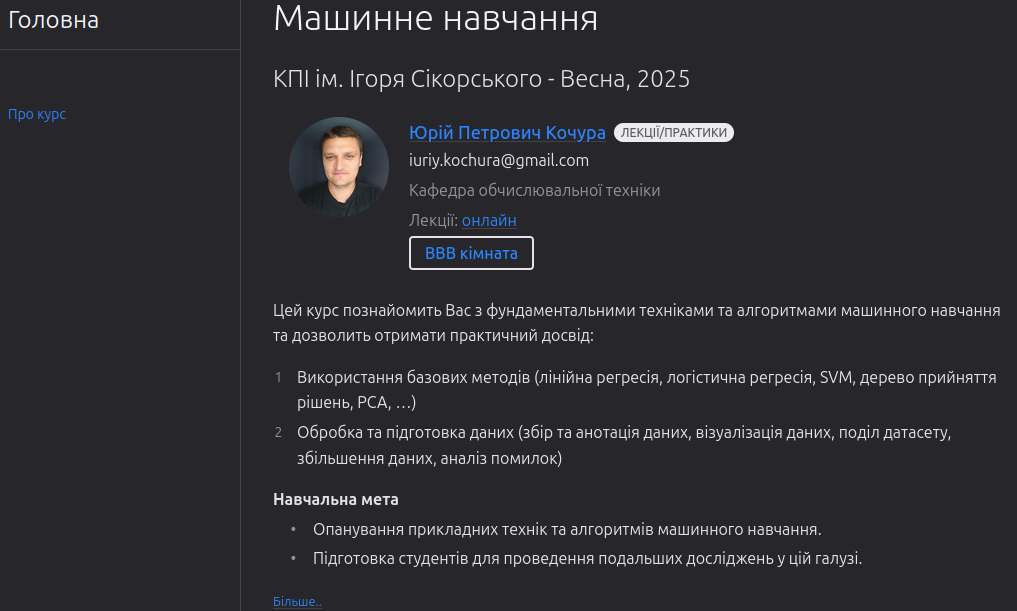
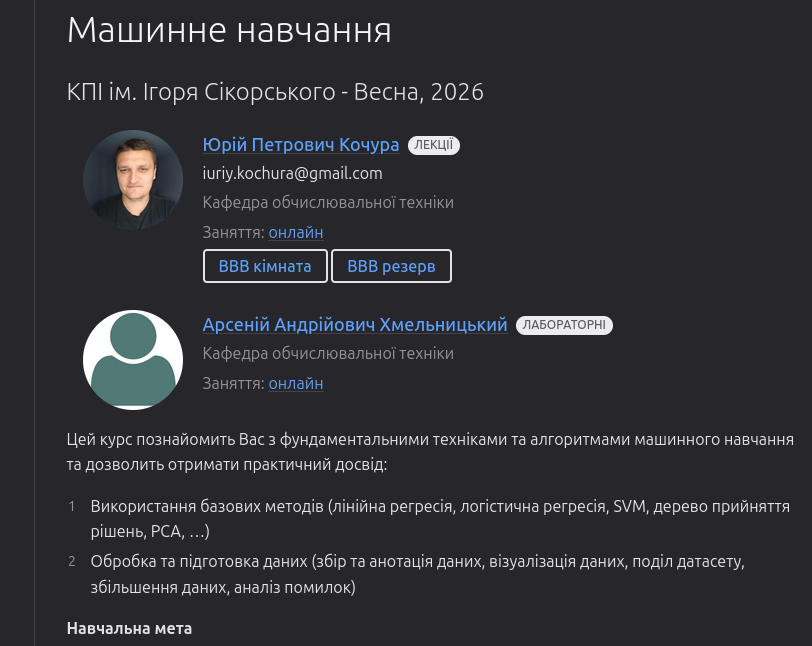
upd

diff --git a/details.md b/details.md
@@ -2,33 +2,40 @@ class: middle, center, title-slide
 
 # Машинне навчання
 
-Весна, 2025
+Весна, 2026
 
 <br><br>
 Кочура Юрій Петрович<br>
 [iuriy.kochura@gmail.com](mailto:iuriy.kochura@gmail.com) <br>
 <a href="https://t.me/y_kochura">@y_kochura</a> <br>
 
-
-???
-
-R: https://www.cs.toronto.edu/~duvenaud/courses/csc2541/index.html projects
-
 ---
 
-# Інструктор
+class: middle 
 
-Лекції та практики:
-- Кочура Юрій Петрович 
-  - Кафедра ОТ, ФІОТ 
+# Викладачі
 
-<br>
 
-.center[
-.circle.width-40[![](figures/details/ykochura.jpg)]
+.grid[
+.kol-1-2[ 
+.center.larger-x[📖 Лекції] <br>
+.circle.center.width-60[![](./figures/details/ykochura.png)]
+.bold.center[👤 Кочура Юрій Петрович ] 
+<span style="display:block; margin:10px 0;"></span>
+.bold.center[🏢 Кафедра ОТ, ФІОТ]
+
 ]
+.kol-1-2[
+.center.larger-x[💻 Лабораторні]<br> 
+.circle.center.width-60[![](./figures/details/image.jpg)]
+.bold.center[👤 Арсеній Андрійович Хмельницький ] 
+<span style="display:block; margin:10px 0;"></span>
+.bold.center[🏢 Кафедра ОТ, ФІОТ]
+
+]]
 
 ---
+
 
 class: middle 
 # Опис
@@ -96,14 +103,15 @@ count: false
 ---
 
 
+# Аудиторія для лекцій
 
-class: middle 
-# Заняття
+- Цього семестру .highlight[.bold[лекції]] будуть онлайн у змішаному форматі
+ 
+- Семінар в синхронному режимі онлайн на платформі .bold[*BigBlueButton*]:
+.rectangle[BBB кімната:  [https://bbb.comsys.kpi.ua/rooms/yur-olk-sfq-1dv/join](https://bbb.comsys.kpi.ua/rooms/yur-olk-sfq-1dv/join)]<br>
+.rectangle[BBB резерв:  [https://bbb.ugrid.org/b/yur-hbj-mzc-rr4](https://bbb.ugrid.org/b/yur-hbj-mzc-rr4)]
 
-- *Лекції* та *практики* будуть онлайн у змішаному форматі
-- Семінар в синхронному режимі онлайн на платформі .bold[*BigBlueButton*]:<br>  [https://bbb.comsys.kpi.ua/rooms/yur-olk-sfq-1dv/join](https://bbb.comsys.kpi.ua/rooms/yur-olk-sfq-1dv/join)
-
-.center.width-100[![](figures/details/bbb.png)]
+.center.width-90[![](figures/details/bbb.png)]
 
 ---
 
@@ -113,8 +121,7 @@ class: middle
 
 Усі *оголошення* та *обговорення* будуть здійснюватись в Telegram (повідомте мене, якщо потрібно Вас додати)
 
-- Задавайте питання, які Вас турбують
-- Не соромтесь!
+.quote[Ставте запитання, діліться корисними ресурсами та спілкуйтеся з одногрупниками і викладачами.]
 
 
 .center.width-40[![](figures/details/telegram.png)]
@@ -127,7 +134,7 @@ class: middle
 
 # Що робити, якщо розпочалась повітряна тривога?
 
-У випадку оголошення повітряної тривоги у Вашому місті &mdash; залиште заняття та прямуйте до найближчого укриття. 
+.alert[📢 У випадку оголошення повітряної тривоги  &mdash; залиште заняття та .bold[прямуйте до найближчого укриття].]
 
 ---
 
@@ -137,7 +144,7 @@ class: middle
 # Вебсторінка
 
 
-Усі навчальні матеріали будуть розміщуватись на цій вебсторінці:<br>  [https://courses-cs-kpi.github.io/ml-25sp/](https://courses-cs-kpi.github.io/ml-25sp/)
+Навчальні матеріали будуть розміщуватись на цій вебсторінці:<br>  .rectangle[[https://courses-cs-kpi.github.io/ml-26sp/](https://courses-cs-kpi.github.io/ml-26sp/)]
 
 .center.width-80[![](figures/details/web.png)]
 
@@ -215,7 +222,7 @@ class: middle
 - 30%  &nbsp;&emsp; Екзамен 
 
 **Примітка!** Умова допуску до семестрового контролю (екзамену):<br>
- .center[*Практичні + Контрольна +  Семінар * $\geq 42\%$]
+ .center[*Практичні + Контрольна +  Семінар* $\geq 42\%$]
 
 ---
 
@@ -254,7 +261,8 @@ count: false
 Кодексом честi КПI iм. Iгоря Сiкорського ([Розліл 3](https://kpi.ua/code)) та усi наступнi
 правила:
 
-1. Кожен з Вас повинен вiдправляти на перевiрку власно виконану роботу. Використання чужих розв’язкiв або програмного коду i представлення їх за свої напрацювання є плагiатом та серйозним порушенням основних академiчних стандартiв.
+1. Кожен з Вас повинен вiдправляти на перевiрку .highlight[.bold[власно виконану роботу]]. Використання чужих розв’язкiв або програмного коду i представлення їх за свої напрацювання є плагiатом та серйозним порушенням основних академiчних стандартiв.
+
 
 ---
 
@@ -293,104 +301,6 @@ count: false
 1. .inactive[Ви не повиннi дiлитися своїми розв’язками з iншими студентами, а також просити iнших дiлитися своїми розв’язками з Вами.]
 
 1. Якщо Ви отримували допомогу у вирiшеннi певного завдання, Ви маєте зазначити це у звiтi, а саме: вiд кого та яку допомогу отримали.
-
----
-
-
-
-class: middle 
-# Кодекс честі
-
-## Норми етичної поведінки
-
-Норми етичної поведінки студентів і працівників університету визначені у [розділі 2 Кодексу честі](https://kpi.ua/code) 
-Національного технічного університету України «Київський політехнічний інститут імені Ігоря
-Сікорського».
-
----
-
-class: middle 
-# Кодекс честі
-
-## Виконання завдань: практики та семінар
-
-Викладачем встановлюється граничний термін для виконання усіх видів завдань з метою послідовного і збалансованого засвоєння студентами навчального матеріалу та моніторингу виконання здобувачами індивідуальних навчальних планів згідно з графіком навчального процесу. Здача на перевірку виконаних завдань після встановлених термінів
-супроводжується штрафними балами. Кінцевим терміном для здачі на перевірку усіх видів завдань є останнє заняття з комп’ютерного практикуму. У період проведення в університеті заліково-екзаменаційної сесії приймання завдань не буде здійснюватись. На перездачі кожен має можливість переробити або доопрацювати завдання з метою підвищення свого поточного рейтингу.
-
----
-
-class: middle 
-# Кодекс честі
-
-## Процедура оскарження оцінок
-
-Якщо студент(-ка) вважає, що його(її) роботу недооцінено або переоцінено &mdash; потрібно
-звернутися до викладача, який здійснював оцінювання та повідомити про це із зазначенням
-короткого обґрунтування (оцінка буде переглянута).
-
----
-
-class: middle 
-# Як успішно завершити курс?
-
-???
-Викладач зацікавлений у тому, щоб усі досягли успіху під час вивчення дисципліни та дізналися якомога більше не лише про “зміст предмету”, а й про те, як ми можемо покращити світ навколо нас. 
-
----
-
-class: middle 
-count: false
-# Як успішно завершити курс?
-
-  - Визначте пріоритети
-    - Використовуйте свій час та енергію так, щоб могли досягти поставлених цілей у навчанні, роботі та власному житті.
-
----
-
-class: middle 
-count: false
-# Як успішно завершити курс?
-
-  - Визначте пріоритети
-    - Використовуйте свій час та енергію так, щоб могли досягти поставлених цілей у навчанні, роботі та власному житті.
-
-  - Працюйте систематично
-    - Подібно до спортивних тренувань, навчання вимагає систематичності та регулярності для того, щоб досягти реального прогресу.
-
----
-
-
-class: middle 
-count: false
-# Як успішно завершити курс?
-
-  - Визначте пріоритети
-    - Використовуйте свій час та енергію так, щоб могли досягти поставлених цілей у навчанні, роботі та власному житті.
-
-  - Працюйте систематично
-    - Подібно до спортивних тренувань, навчання вимагає систематичності та регулярності для того, щоб досягти реального прогресу.
-
-  - Спілкуйтеся з однодумцями
-    - Знайдіть друга з яким зможете обговорювати матеріали лекцій і не тільки. Слідкуйте за людьми, трудовою етикою яких Ви захоплюєтесь &mdash; успішні люди надихаю.
-
----
-
-
-class: middle 
-count: false
-# Як успішно завершити курс?
-
-  - Визначте пріоритети
-    - Використовуйте свій час та енергію так, щоб могли досягти поставлених цілей у навчанні, роботі та власному житті.
-
-  - Працюйте систематично
-    - Подібно до спортивних тренувань, навчання вимагає систематичності та регулярності для того, щоб досягти реального прогресу.
-
-  - Спілкуйтеся з однодумцями
-    - Знайдіть друга з яким зможете обговорювати матеріали лекцій і не тільки. Слідкуйте за людьми, трудовою етикою яких Ви захоплюєтесь &mdash; успішні люди надихаю.
-
-  - Залишайтесь духовно та фізично здоровими
-    - Навчаючись онлайн, швидше за все, Ви будете проводите більше часу за комп’ютером, ніж це було б під час офлайн навчання, тому не забувайте робити перерви, ходити на прогулянки, спати рекомендовану кількість годин та їсти здорову їжу для підтримання свого організму.
 
 ---
 
